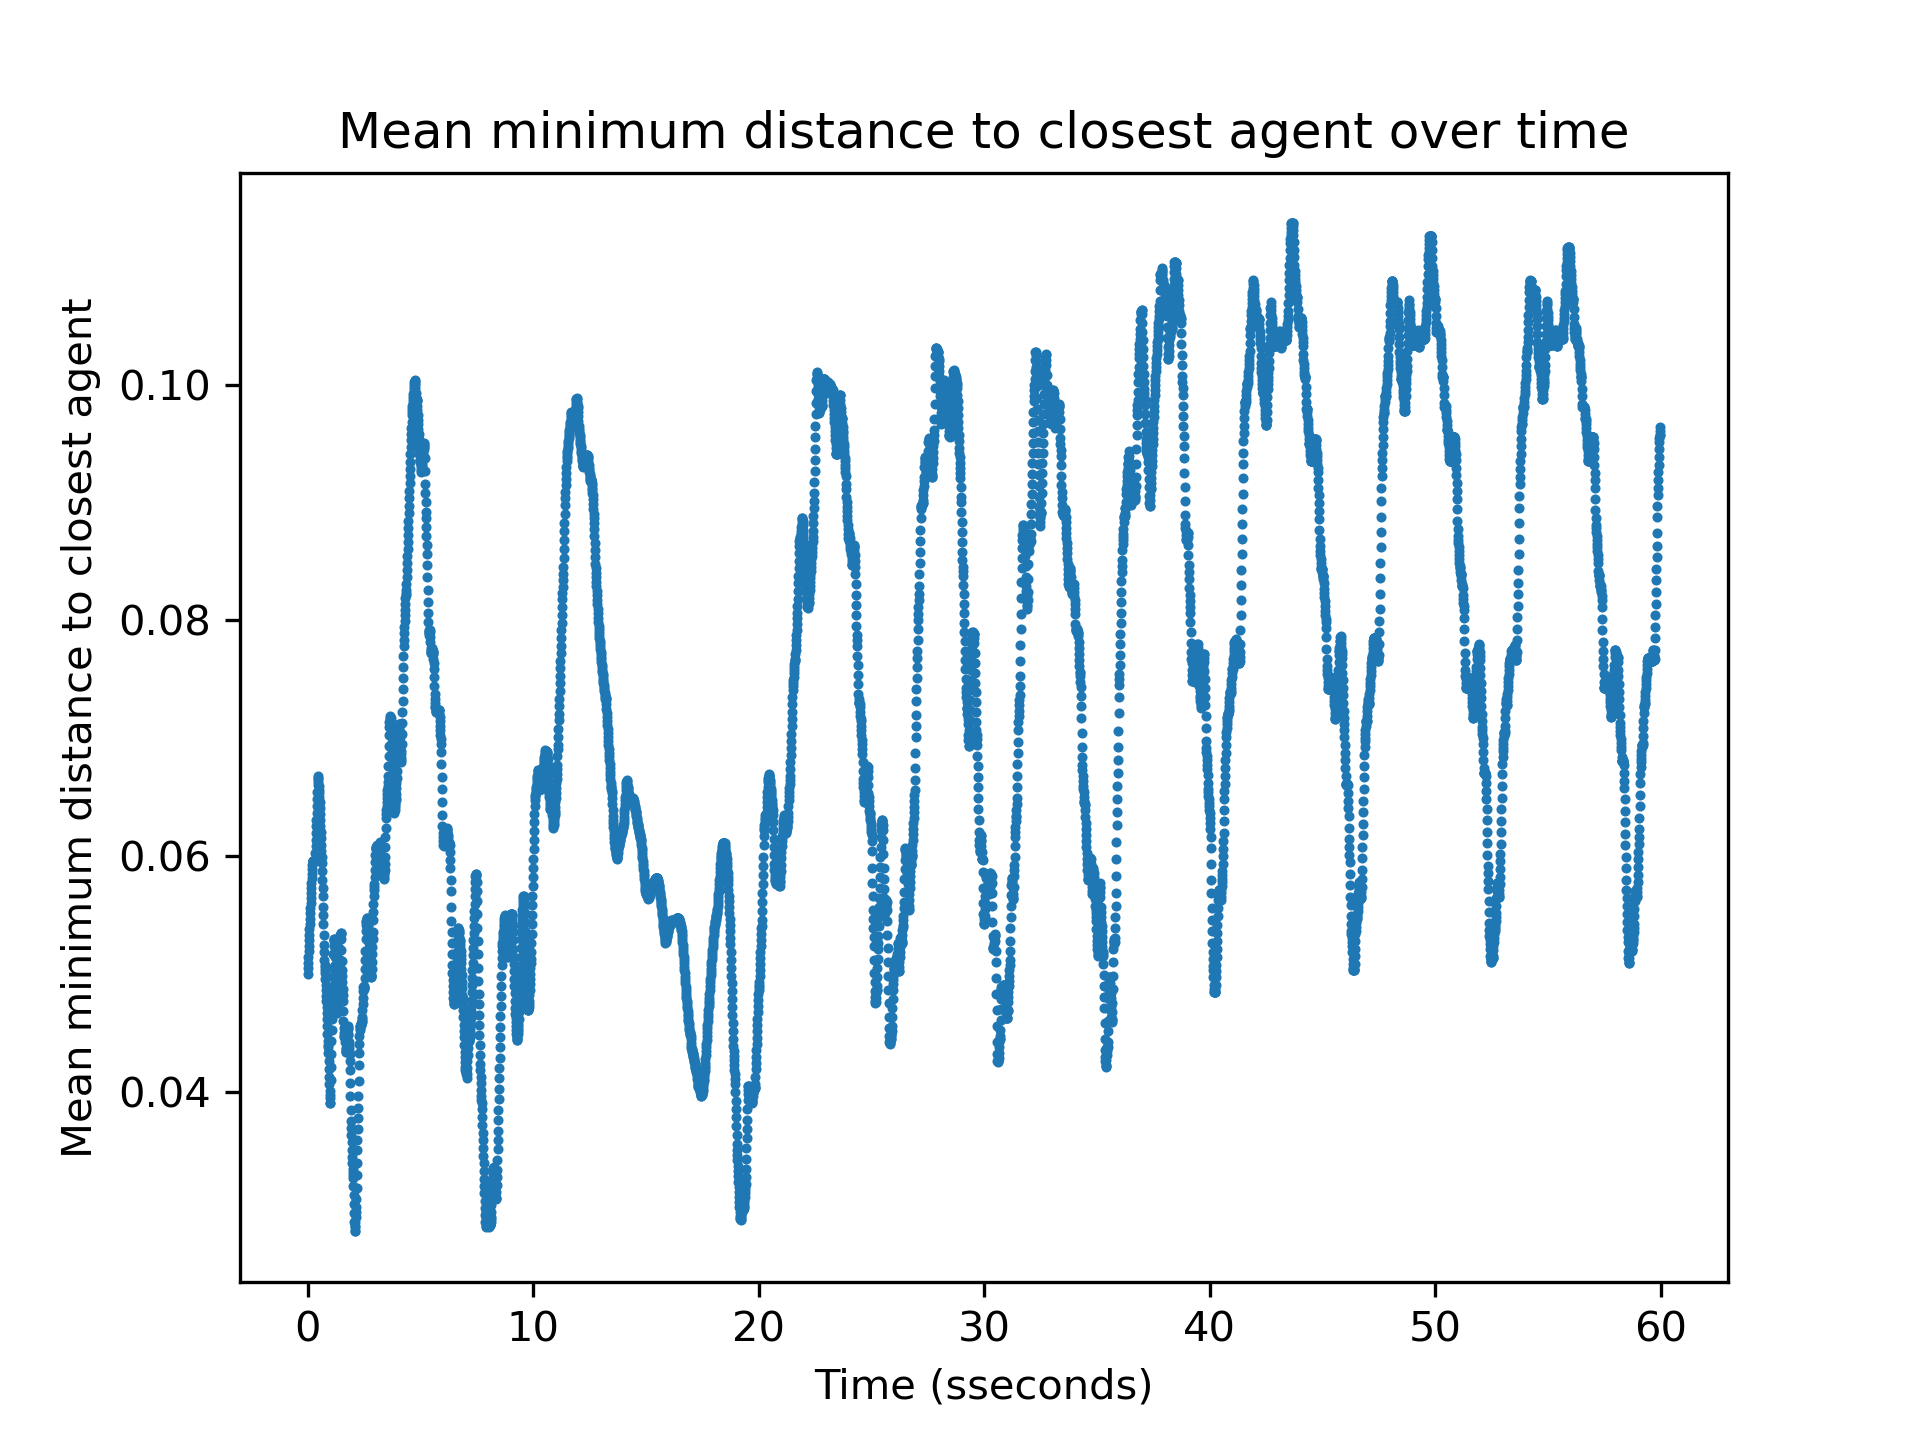
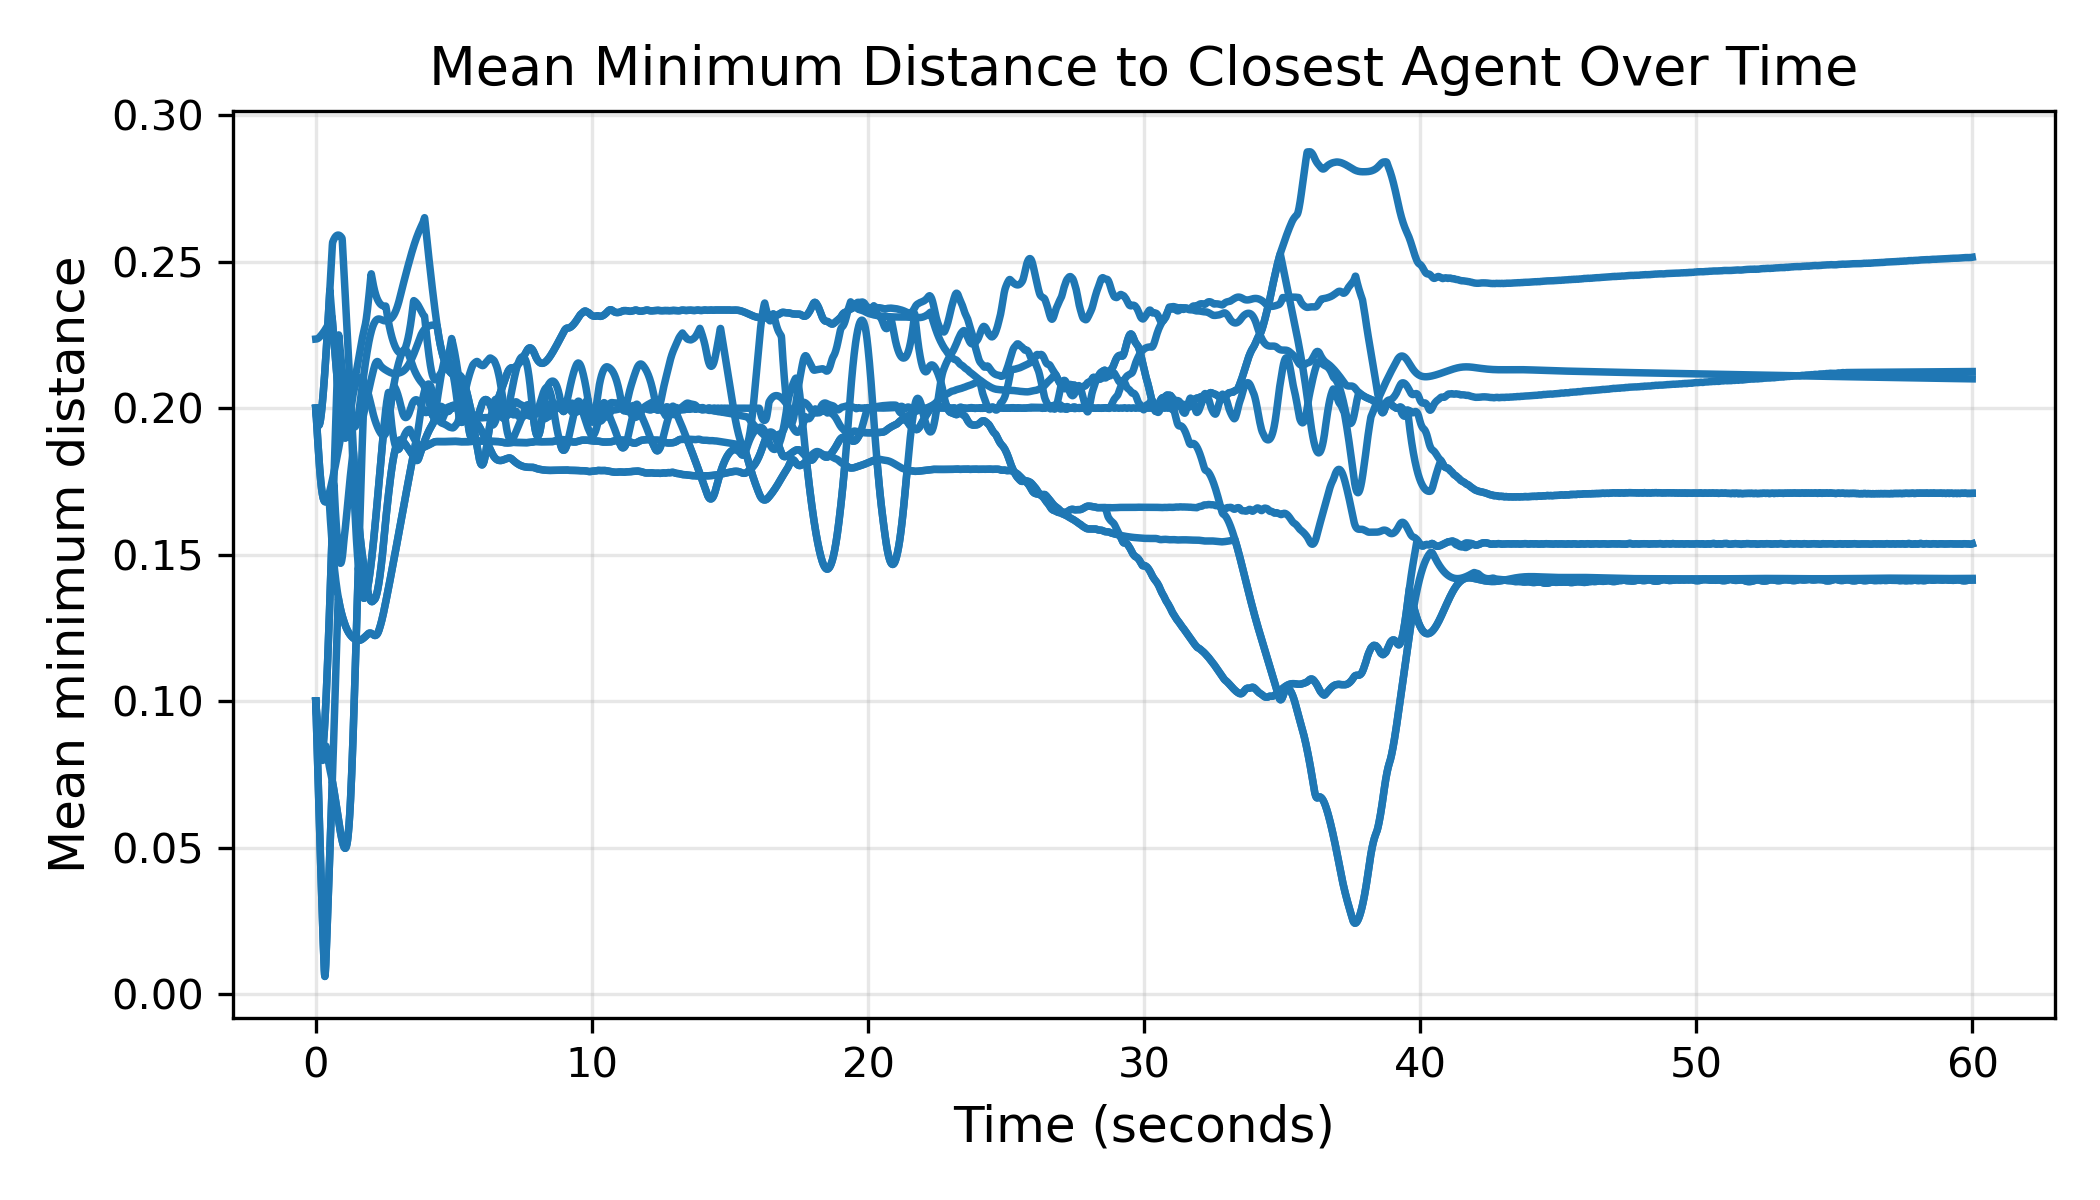
updated gitignore to include comsol and fluid data files

Changed region(s): [[0.0, 0.0308, 0.9688, 0.9867], [0.9688, 0.0925, 1.0, 0.1233]]

diff --git a/examples/MK-torque/sim_df_to_plots.py b/examples/MK-torque/sim_df_to_plots.py
@@ -11,6 +11,7 @@ import pandas as pd
 import numpy as np
 import matplotlib.pyplot as plt
 from io import StringIO
+from matplotlib.animation import FuncAnimation, FFMpegWriter
 
 #read in csv file
 filename= 'examples/MK-torque/r-o-a-threezone/torque-threezone-dfpositions.csv'
@@ -70,7 +71,7 @@ def dist_origin_to_other_agents(df,Lx=1, Ly=1, x_bndry='periodic', y_bndry='peri
             origin_y = positions[:, n, 1] # y positions of agent n for all time (iter * dt x 1)
         
             x_delta = positions[:, : ,0] - origin_x[:, np.newaxis] # vectorized difference in x positions (iter * dt x N)
-            y_delta = positions[:, : ,0] - origin_y[:, np.newaxis] # vectorized difference in y positions (iter * dt x N)
+            y_delta = positions[:, : ,1] - origin_y[:, np.newaxis] # vectorized difference in y positions (iter * dt x N)
         
             if x_bndry == 'periodic':
                 diffs[:, :, 0] = (x_delta + domain[0]/2) % domain[0] - domain[0]/2
@@ -79,10 +80,10 @@ def dist_origin_to_other_agents(df,Lx=1, Ly=1, x_bndry='periodic', y_bndry='peri
                 diffs[:, :, 0] = x_delta
 
             if y_bndry == 'periodic':
-                diffs[:, :, 0] = (y_delta + domain[1]/2) % domain[1] - domain[1]/2
+                diffs[:, :, 1] = (y_delta + domain[1]/2) % domain[1] - domain[1]/2
 
             else:
-               diffs[:, :, 0] = y_delta
+               diffs[:, :, 1] = y_delta
        
             dist[:, n, :] = np.sqrt(diffs[:, :, 0]**2 + diffs[:, :, 1]**2) #store the distances in a matrix for later use            
         return dist #return a matrix of distances (iter * dt x N)
@@ -100,21 +101,194 @@ for t in range(distances.shape[0]): #loop over time
 print(min_distances.shape) #(n_times, n_agents)
 print(min_distances)
 
-#now for each time, find the mean of the minimum distances across all agents
-mean_min_distances = np.mean(min_distances, axis=1) #n_times
-print(mean_min_distances.shape) #(n_times,)
-#plot the mean minimum distance over time
-plt.figure()
-#scatter plot
-plt.scatter(df_agent_positions['time'].unique(), mean_min_distances, s=2)
-plt.xlabel('Time (sseconds)')
-plt.ylabel('Mean minimum distance to closest agent')
-plt.title('Mean minimum distance to closest agent over time')
-#save the plot
+# Extract time vector (in seconds, not time steps)
+time = np.sort(df_agent_positions['time'].unique())
+
+# --- 1⃣ Mean minimum distance over time ---
+#have each line be a different color
+plt.figure(figsize=(7, 4))
+plt.plot(time, min_distances, color='tab:blue' , lw=1.8)
+plt.xlabel('Time (seconds)', fontsize=12)
+plt.ylabel('Mean minimum distance', fontsize=12)
+plt.title('Mean Minimum Distance to Closest Agent Over Time', fontsize=13)
+plt.grid(alpha=0.3)
+plt.tight_layout()
 plt.savefig('examples/MK-torque/r-o-a-threezone/mean_min_distance_to_closest_agent.png', dpi=300)
 plt.show()
 
+# choose a colormap and generate colors for each agent
+n_agents= min_distances.shape[1]
+cmap = plt.cm.viridis
+colors = cmap(np.linspace(0, 1, n_agents))
+
+# create figure and axis explicitly
+fig, ax = plt.subplots(figsize=(7, 4))
+
+# plot each agent's minimum distance with its gradient color
+for a in range(n_agents):
+    ax.plot(time, min_distances[:, a], color=colors[a], lw=1.8, alpha=0.8)
+
+ax.set_xlabel('Time (seconds)', fontsize=12)
+ax.set_ylabel('Minimum distance to closest agent', fontsize=12)
+ax.set_title('Minimum Distance to Closest Agent Over Time', fontsize=13)
+ax.grid(alpha=0.3)
+
+# create and attach colorbar to the same axis
+sm = plt.cm.ScalarMappable(cmap=cmap, norm=plt.Normalize(vmin=0, vmax=n_agents-1))
+cbar = fig.colorbar(sm, ax=ax, pad=0.02)
+cbar.set_label('Agent ID', rotation=270, labelpad=15)
+
+fig.tight_layout()
+plt.savefig('examples/MK-torque/r-o-a-threezone/min_distance_each_agent_gradient.png', dpi=300)
+plt.show()
 
 
+# --- 2⃣ Mean ± std minimum distance ---
+avg_min_dist= np.mean(min_distances, axis=1)
+std_dist_min = np.std(min_distances, axis=1)
+plt.figure(figsize=(7, 4))
+plt.plot(time, avg_min_dist, color='tab:blue', lw=1.8, label='Mean minimum distance')
+plt.fill_between(time, 
+                    avg_min_dist - std_dist_min, 
+                 avg_min_dist + std_dist_min,
+                 color='tab:blue', alpha=0.2, label='±1 std')
+plt.xlabel('Time (seconds)', fontsize=12)
+plt.ylabel('Mean minimum distance', fontsize=12)
+plt.title('Mean ± Std of Minimum Distances to Closest Agent', fontsize=13)
+plt.legend(frameon=False)
+plt.grid(alpha=0.3)
+plt.tight_layout()
+plt.savefig('examples/MK-torque/r-o-a-threezone/mean_min_distance_to_closest_agent_std.png', dpi=300)
+plt.show()
+
+# --- 3⃣ Histogram of final-time minimum distances ---
+final_min_distances = min_distances[-1, :]
+plt.figure(figsize=(6, 4))
+plt.hist(final_min_distances, bins=20, color='tab:orange', edgecolor='black', alpha=0.8)
+plt.xlabel('Minimum distance (final time step)', fontsize=12)
+plt.ylabel('Number of agents', fontsize=12)
+plt.title('Distribution of Closest-Agent Distances at Final Time Step', fontsize=13)
+plt.grid(alpha=0.3, axis='y')
+plt.tight_layout()
+plt.savefig('examples/MK-torque/r-o-a-threezone/histogram_min_distance_final_timestep.png', dpi=300)
+plt.show()
+
+# --- 4⃣ Mean & std of all pairwise distances over time ---
+mask = ~np.eye(distances.shape[1], dtype=bool)
+mean_dist = np.mean(distances[:, mask], axis=1)
+std_dist = np.std(distances[:, mask], axis=1)
+
+plt.figure(figsize=(7, 4.5))
+plt.plot(time, mean_dist, color='tab:green', lw=2, label='Mean pairwise distance')
+plt.fill_between(time,
+                 mean_dist - std_dist,
+                 mean_dist + std_dist,
+                 color='tab:green', alpha=0.2, label='±1 std')
+plt.plot(time, avg_min_dist, color='tab:blue', lw=1.8, label='Minimum pairwise distance')
+plt.xlabel('Time (seconds)', fontsize=12)
+plt.ylabel('Distance', fontsize=12)
+plt.title('Mean and Standard Deviation of Pairwise Distances Over Time', fontsize=13)
+plt.legend(frameon=False)
+plt.grid(alpha=0.3)
+plt.tight_layout()
+plt.savefig('examples/MK-torque/r-o-a-threezone/mean_pairwise_distance_std.png', dpi=300)
+plt.show()
+
+# --- 5⃣ Average distance from an agent to all others over time  ---
+#ie for each agent, at each time, we want the average distance to all other agents
+
+#now for each time (each row) and each agent (each column), find the minimum distance to another agent
+# avg_distances: shape (n_times, n_agents)
+avg_distances = np.zeros((distances.shape[0], distances.shape[1]))
+
+for t in range(distances.shape[0]):
+    for a in range(distances.shape[1]):
+        # exclude self-distance by masking the diagonal
+        mask = np.ones(n_agents, dtype=bool)
+        mask[a] = False
+        avg_distances[t, a] = np.mean(distances[t, a, mask])
+# gradient colormap
+cmap = plt.cm.viridis
+colors = cmap(np.linspace(0, 1, n_agents))
+
+# create figure and axis
+fig, ax = plt.subplots(figsize=(7, 4))
+
+# plot each agent's average distance with gradient color
+for a in range(n_agents):
+    ax.plot(time, avg_distances[:, a], color=colors[a], lw=1.5, alpha=0.8)
+
+ax.set_xlabel('Time (seconds)', fontsize=12)
+ax.set_ylabel('Average distance to all other agents', fontsize=12)
+ax.set_title('Average Distance to All Other Agents Over Time', fontsize=13)
+ax.grid(alpha=0.3)
+
+# optional: create a legend for the first few agents only (if too many agents)
+if n_agents <= 15:
+    ax.legend([f'Agent {i}' for i in range(n_agents)], frameon=False, fontsize=9)
 
 
+fig.tight_layout()
+plt.savefig('examples/MK-torque/r-o-a-threezone/average_distance_to_all_agents_gradient.png', dpi=300)
+plt.show()
+
+
+#min distance distribution over time
+plt.figure(figsize=(8,5))
+plt.hist(min_distances, bins=30, density=True, histtype='stepfilled', alpha=0.7)
+plt.xlabel('Minimum Distance to Closest Agent', fontsize=12)
+plt.ylabel('Density', fontsize=12)
+plt.title('Distribution of Minimum Distances Over Time', fontsize=13)
+plt.grid(alpha=0.3)
+plt.tight_layout()
+
+plt.savefig('examples/MK-torque/r-o-a-threezone/heatmap_min_distance_over_time.png', dpi=300)
+plt.show()
+
+#2⃣ Pairwise distance matrix snapshot
+#Pick a time (e.g., final timestep), and plot a heatmap of all pairwise distances.
+#Can reveal clusters or isolated agents visually.
+import seaborn as sns
+pairwise_snapshot = distances[-1, :, :].copy()
+np.fill_diagonal(pairwise_snapshot, 0)  # distance to self = 0
+plt.figure(figsize=(6,5))
+plt.imshow(pairwise_snapshot, cmap='viridis', origin='lower')
+plt.colorbar(label='Distance')
+plt.xlabel('Agent ID')
+plt.ylabel('Agent ID')
+plt.title('Pairwise distances at final time step')
+plt.tight_layout()
+plt.savefig('examples/MK-torque/r-o-a-threezone/pairwise_distance_heatmap_final_timestep.png', dpi=300)
+plt.show()
+
+#################################
+#make this a movie over time
+# copy of distances to avoid modifying original
+pairwise_time_series = distances.copy()
+n_times = pairwise_time_series.shape[0]
+
+fig, ax = plt.subplots(figsize=(6,5))
+# optional: set global vmin/vmax for consistent colors
+vmax = np.nanmax(pairwise_time_series[np.isfinite(pairwise_time_series)])
+
+def update(frame):
+    ax.clear()
+    snapshot = pairwise_time_series[frame, :, :].copy()
+    np.fill_diagonal(snapshot, 0)  # distance to self = 0
+    im = ax.imshow(snapshot, cmap='viridis', origin='lower', vmin=0, vmax=vmax, label= 'Distance')
+    ax.set_title(f'Pairwise distances at time step {frame}')
+    ax.set_xlabel('Agent ID')
+    ax.set_ylabel('Agent ID')
+
+    return [im]
+
+anim = FuncAnimation(fig, update, frames=n_times, blit=False)
+
+# save animation as mp4 using ffmpeg
+writer = FFMpegWriter(fps=100, metadata=dict(artist='MK'), bitrate=1800)
+anim.save('examples/MK-torque/r-o-a-threezone/pairwise_distances_movie.mp4', writer=writer)
+
+plt.close(fig)
+
+#########
+#Mean min distance distribution at final time step across multiple simulations
